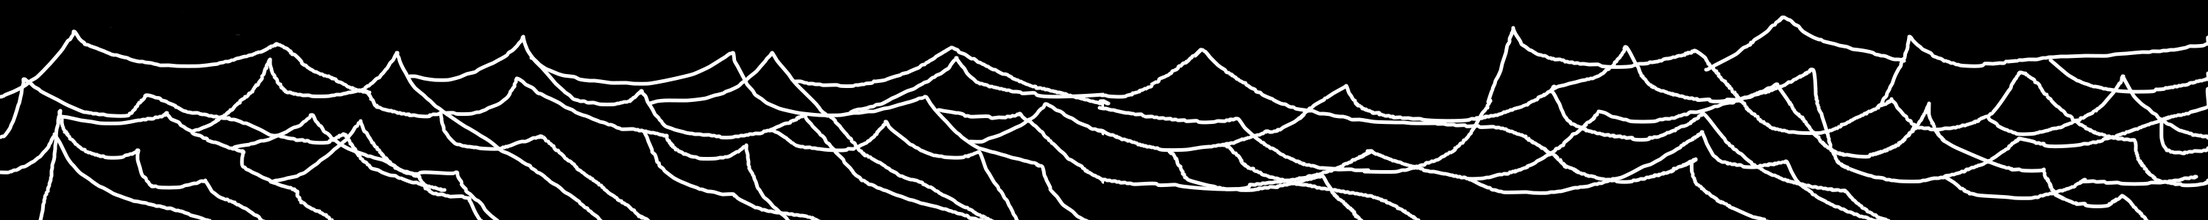
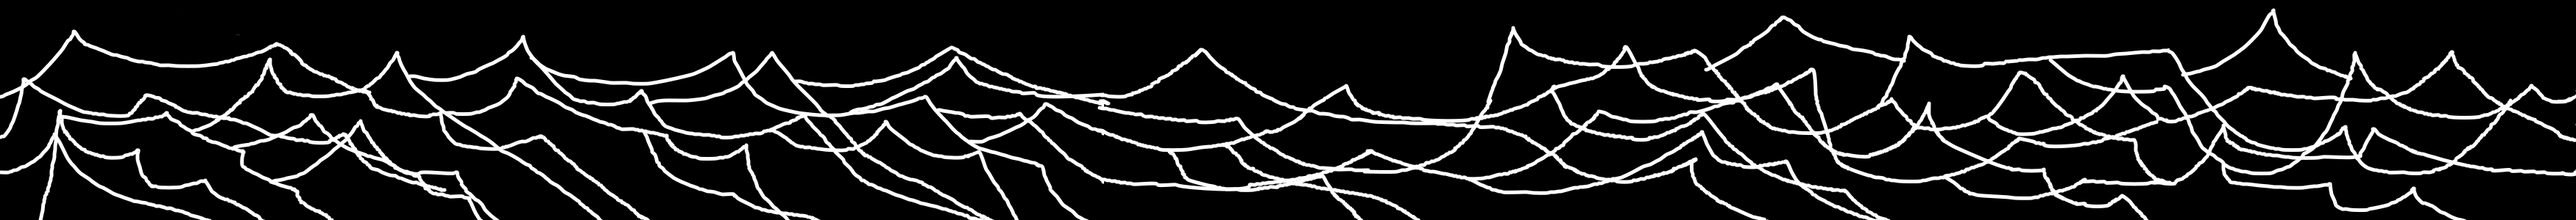
made background scrollable

Changed region(s): [[0.0, 0.06, 1.0, 1.0], [0.682, 0.93, 0.744, 1.0], [0.806, 0.09, 0.837, 0.12]]

diff --git a/style.css b/style.css
@@ -1,59 +1,74 @@
 :root {
-    /* --red: #C3423F;
+  /* --red: #C3423F;
     --green: #9BC53D;
     --blue: #5BC0EB;
     --yellow: #FDE74C; */
-    --background-color: #000;
-    --text-color: #EDEDED;
+  --background-color: #000;
+  --text-color: #ededed;
 
-    color: var(--text-color) !important;
-    font-family: "JetBrains Mono" !important;
-    font-weight: 400;
+  color: var(--text-color) !important;
+  font-family: "JetBrains Mono" !important;
+  font-weight: 400;
 }
 
 body {
-    background-color: var(--background-color);
-    display: flex;
-    flex-direction: row;
-    justify-content: center;
+  background-color: var(--background-color);
+  display: flex;
+  flex-direction: column;
+  justify-content: center;
+  align-items: center;
+  overflow-x: hidden;
 }
 
 #wrapper {
-    width: 50%;
-    overflow: hidden;
+  width: 50%;
+  overflow: hidden;
 }
 
-#carousel {
-    overflow: hidden;
-    height: 200px;
-    transform: translate(-10%);
+#background {
+  display: flex;
+  flex-direction: row;
+}
+
+#background > * {
+  animation: scroll 100s linear infinite;
+}
+
+.carousel {
+  height: 200px;
+  display: block;
 }
 
 #title {
-    font-size: 32px;
-    margin-left: auto;
-    margin-right: auto;
+  font-size: 32px;
 }
 
 #clickys {
-    display: flex;
-    flex-direction: row;
-    justify-content: space-evenly;
+  display: flex;
+  flex-direction: row;
+  justify-content: space-evenly;
 }
 
 #clickys > a {
-    text-decoration: none;
-    color: var(--text-color);
-
+  text-decoration: none;
+  color: var(--text-color);
 }
 
-
 h1 {
-    margin: 0;
-    text-align: center;
+  margin: 0;
+  text-align: center;
 }
 
 @font-face {
-    font-family: "JetBrains Mono";
-    src: url("JetBrainsMono.woff2") format("woff2");
+  font-family: "JetBrains Mono";
+  src: url("assets/fonts/JetBrainsMono.woff2") format("woff2");
+}
+
+@keyframes scroll {
+  0% {
+    transform: translate(0%);
+  }
+  100% {
+    transform: translate(-100%);
+  }
 }

diff --git a/index.html b/index.html
@@ -3,20 +3,26 @@
   <head>
     <meta charset="UTF-8" />
     <meta name="viewport" content="width=device-width, initial-scale=1.0" />
-    <title>Document</title>
+    <title>saltrias</title>
     <link rel="stylesheet" href="style.css" />
   </head>
   <body>
+    <div id="background">
+      <img src="assets/images/background.png" class="carousel carousel1" />
+      <img src="assets/images/background.png" class="carousel carousel2" />
+    </div>
     <div id="wrapper">
       <!-- <h1>saltrias</h1> -->
-       <img src="assets/images/background.png" id="carousel">
-       <span id="title">saltrias!</span>
-       <div id="clickys">
-        <a href="">posts</a>
-        <a href="">projects</a>
-        <a href="">contact</a>
-        <a href="">social</a>
-       </div>
+      <div id="titleContainer">
+        <span id="title">saltrias!</span>
+        <span id="message">a really dreadful website</span>
+      </div>
+      <div id="clickys">
+        <span id="posts">posts</span>
+        <span id="projects">projects</span>
+        <span id="contact">contact</span>
+        <span id="social">social</span>
+      </div>
     </div>
   </body>
 </html>
